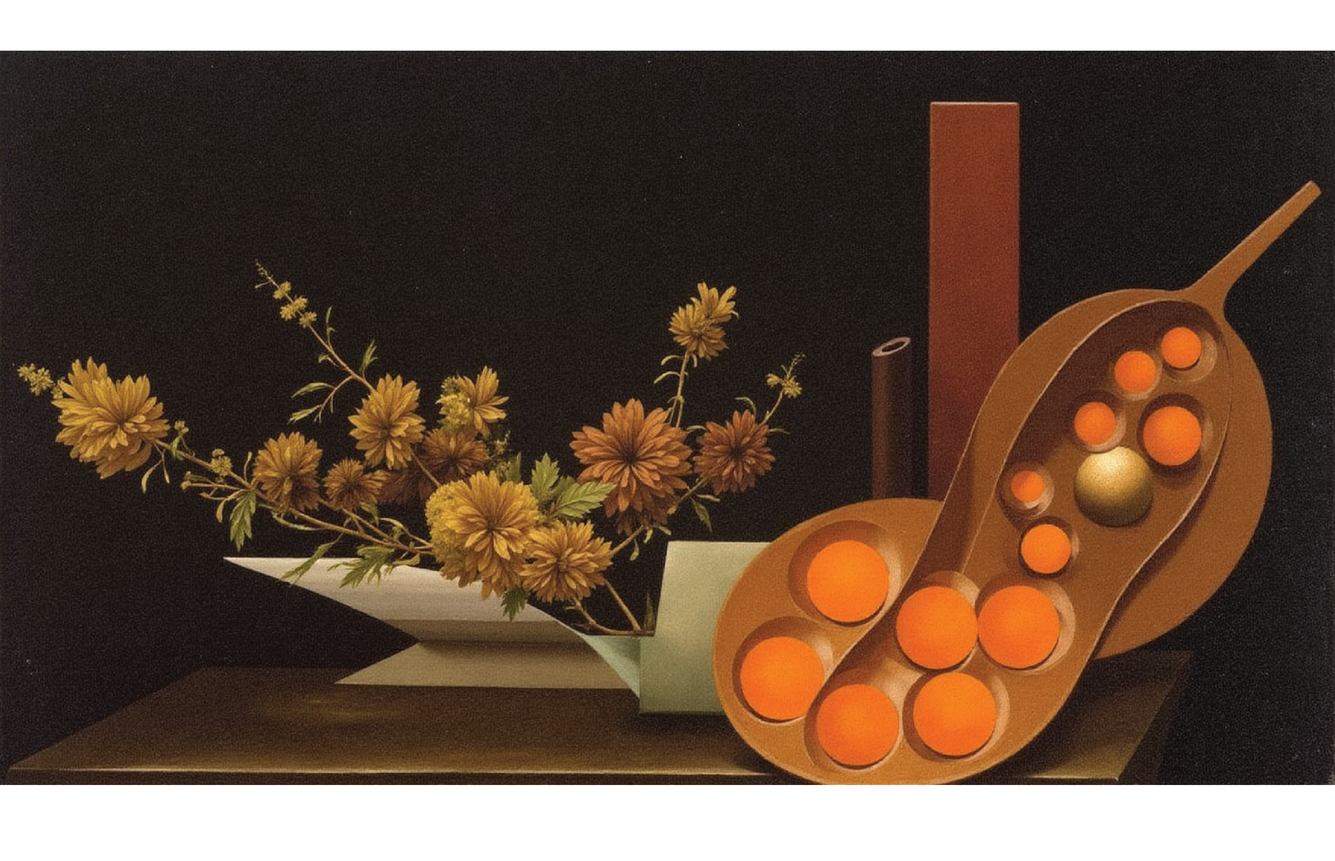
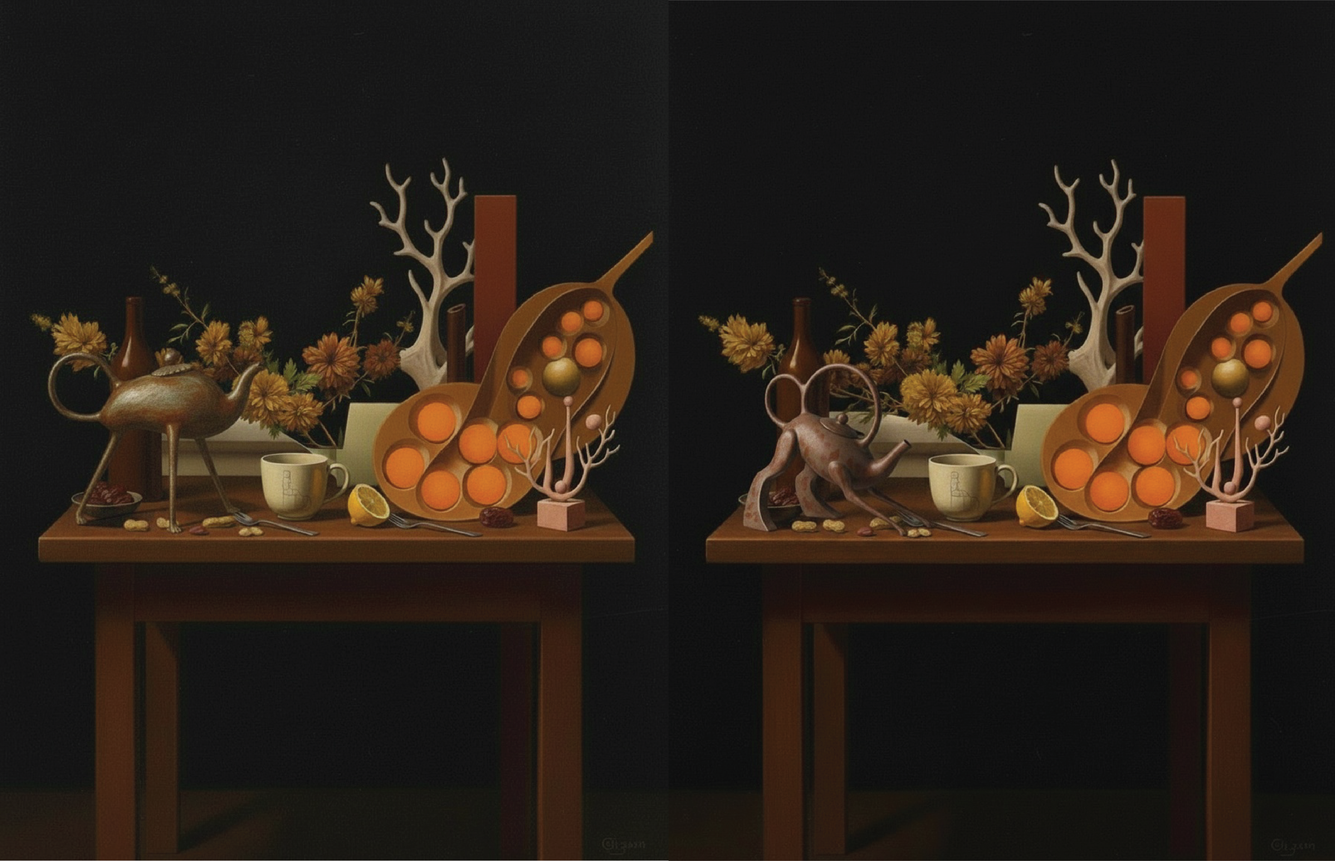
c

diff --git a/ai_teapot.html b/ai_teapot.html
@@ -2,11 +2,13 @@
 <html lang="en">
 <head>
     <meta charset="UTF-8">
-    <title>Rocking Cradle | Project Details</title>
+    <title>Reinterpreting Historical Tea Culture through Generative AI | Project Details</title>
+    <link href="https://fonts.googleapis.com/css2?family=Inter:wght@400;500;600&display=swap" rel="stylesheet">
     <style>
+  
 
 body{
-  font-family: "Helvetica", Arial, sans-serif;
+  font-family: "Inter", Helvetica, Arial, sans-serif;
   margin: 0;
   padding: 20px;
   color: #333;
@@ -42,12 +44,15 @@ body::after{
 
         
         /* 顶部导航模仿 */
-        header { display: flex; justify-content: space-between; margin-bottom: 40px; font-size: 13px; }
-        .logo { font-weight: bold; font-size: 22px; text-transform: uppercase; }
-        nav ul { list-style: none; padding: 0; text-align: right; }
-        nav a { text-decoration: none; color: #000; text-transform: uppercase; display: block; }
+        header { display: flex; justify-content: space-between; margin-bottom: 40px; align-items: flex-start;  font-size: 13px; 
+                 padding: 12px; box-sizing: border-box;}
+        .logo { font-family: "Inter", Helvetica, Arial, sans-serif;
+                font-weight: 700;; font-size: 22px; line-height: 0.95; letter-spacing: 0px; text-transform: uppercase; } 
+        nav ul { list-style: none; padding: 0; margin: 0; display: flex; /* 横排 */ gap: 22px; /* 菜单间距 */
+                 align-items: center; }
+        nav a { text-decoration: none; color: #000; text-transform: uppercase; display: inline-block; /*不要 block */ font-size: 13px; }
+        nav a.active{ background: #ccc; color: #fff; padding: 2px 6px;}
 
-        /* 核心两栏布局 */
 .container{
   display: flex;
   gap: 40px;
@@ -66,14 +71,19 @@ body::after{
 
 /* Left column: flexible but smaller */
 .sidebar{
-  flex: 0 1 38%;        /* ~1/3 */
+  flex: 0 1 32%;        /* ~1/3 */
   max-width: 420px;     /* keeps it from getting too wide */
   font-size: 13px;
+}
+.meta {
+  color: #777; /* softer gray for meta text */
+  font-size: 12px;
+  margin-bottom: 8px;
 }
 
 /* Right column: takes 3/5~2/3 of the space */
 .main-content{
-  flex: 0 1 62%;        /* ~2/3 */
+  flex: 0 1 68%;        /* ~2/3 */
   max-width: 980px;     /* keeps media block stable */
   padding-right: 60px;   /* add breathing room */
   box-sizing: border-box;
@@ -105,7 +115,7 @@ body::after{
         .featured-image .arrow:hover { background: rgba(255,255,255,0.95); }
 
         /* 缩略图网格：固定缩略图宽度；高度随原图比例变化 */
-        :root { --thumb-w: 120px; }
+        :root { --thumb-w: 86px; }
         .thumb-grid {
             display: grid;
             /* 使用 minmax 让列在窄屏下收缩以避免水平滚动，同时在宽屏下尽可能保持约定的缩略图宽度 */
@@ -146,26 +156,30 @@ body::after{
 <body>
 
 <header>
-    <div class="logo">EPI-<br>PHYTE<br>LAB</div>
-    <nav>
-        <ul>
-            <li><a href="#">ALL PROJECTS / ECOLOGIES</a></li>
-            <li><a href="#">PRACTICE</a></li>
-            <li><a href="#">DESIGN RESEARCH</a></li>
-        </ul>
-    </nav>
+  <div class="logo">YEYE<br>PORTFOLIO</div>
+  <nav>
+    <ul>
+      <li><a href="#" class="active">PROJECTS</a></li>
+      <li><a href="#">CONTACT</a></li>
+    </ul>
+  </nav>
 </header>
+
+
 
 <div class="container">
     <div class="sidebar">
-        <h2>Rocking Cradle</h2>
-        <div class="meta">| Hazelwood Pittsburgh, PA | 2022 |<br>| Urban Furniture | Built |</div>
+        <h2>Reinterpreting Historical Tea Culture through Generative AI</h2>
+        <div class="meta">| CMU | Course project of Architectural Intelligence | 2025 |<br>| Fuser | ComfyUI | Flux | 3D printer |</div>
         <p>
-            The Rocking Cradle is an interactive installation featuring binder-jet-printed vessels integrated into a public tree nursery. Inspired by hydrological and geological processes...
-            <br><br>
-            <i>(You can write your English comments here)</i>
+            The project investigates the application of text- and image-conditioned generative models, together with custom LoRA training, as a workflow for cultural reinterpretation and design exploration. Multiple AI platforms, including Fuser, ComfyUI, and Flux, were employed, and the workflow concludes with a 2D-to-3D generation process that produces a physical 3D-printed artifact.
         </p>
-        <div class="meta">| DESIGN TEAM: YEYEVOYEYE, ETC. |<br>| FUNDING: GLOBAL RESEARCH INSTITUTE |</div>
+            The project originates from a traditional tea-snack practice of the Song Dynasty in China, characterized by social gatherings centered on tea preparation and shared food. A real photograph of a tea table was used as the initial visual input and reinterpreted through generative models to produce still-life compositions referencing classical painting aesthetics. Parametric object compositions designed in Rhino were introduced to guide spatial organization and maintain visual coherence.
+        </p>
+            An emergent animal-like teapot generated during the process became a focal design element. This artifact was systematically iterated into a series of horse-like teapots, which were used to train a LoRA model for consistent form generation. The project further extends the tea-gathering scene into a cinematic fantasy environment inspired by Elden Ring, transforming a peaceful ritual into a contrasting, high-tension narrative.
+            <br><br>
+        </p>
+        <div class="meta">| DESIGN TEAM: Yeye Deng </div>
     </div>
 
     <div class="main-content">
@@ -189,7 +203,7 @@ body::after{
     </div>
 </div>
 
-<footer>© 2025 yeyevoyeye studio</footer>
+<footer>© 2025 yeyevoyeye </footer>
 
 <script>
 
@@ -241,6 +255,19 @@ body::after{
 
   // Initialize
   updateFeatured();
+
+  // Nav click to toggle active class (黑底白字高亮)
+  const navLinks = document.querySelectorAll('nav a');
+  navLinks.forEach(a => {
+    a.addEventListener('click', (e) => {
+      // 如果是锚点（#）阻止默认跳转，否则允许正常导航
+      const href = a.getAttribute('href') || '';
+      if (href.startsWith('#')) e.preventDefault();
+      navLinks.forEach(n => n.classList.remove('active'));
+      a.classList.add('active');
+    });
+  });
+
 })();
 
 </script>

diff --git a/index.html b/index.html
@@ -36,7 +36,7 @@
 <body>
 
 <header>
-    <div class="logo">YEYE<br>PORTORLIO</div>
+    <div class="logo">YEYE<br>PORTFOLIO</div>
     <nav>
         <ul>
             <li><a href="#" style="background:#00ff00;">PROJECTS</a></li>
